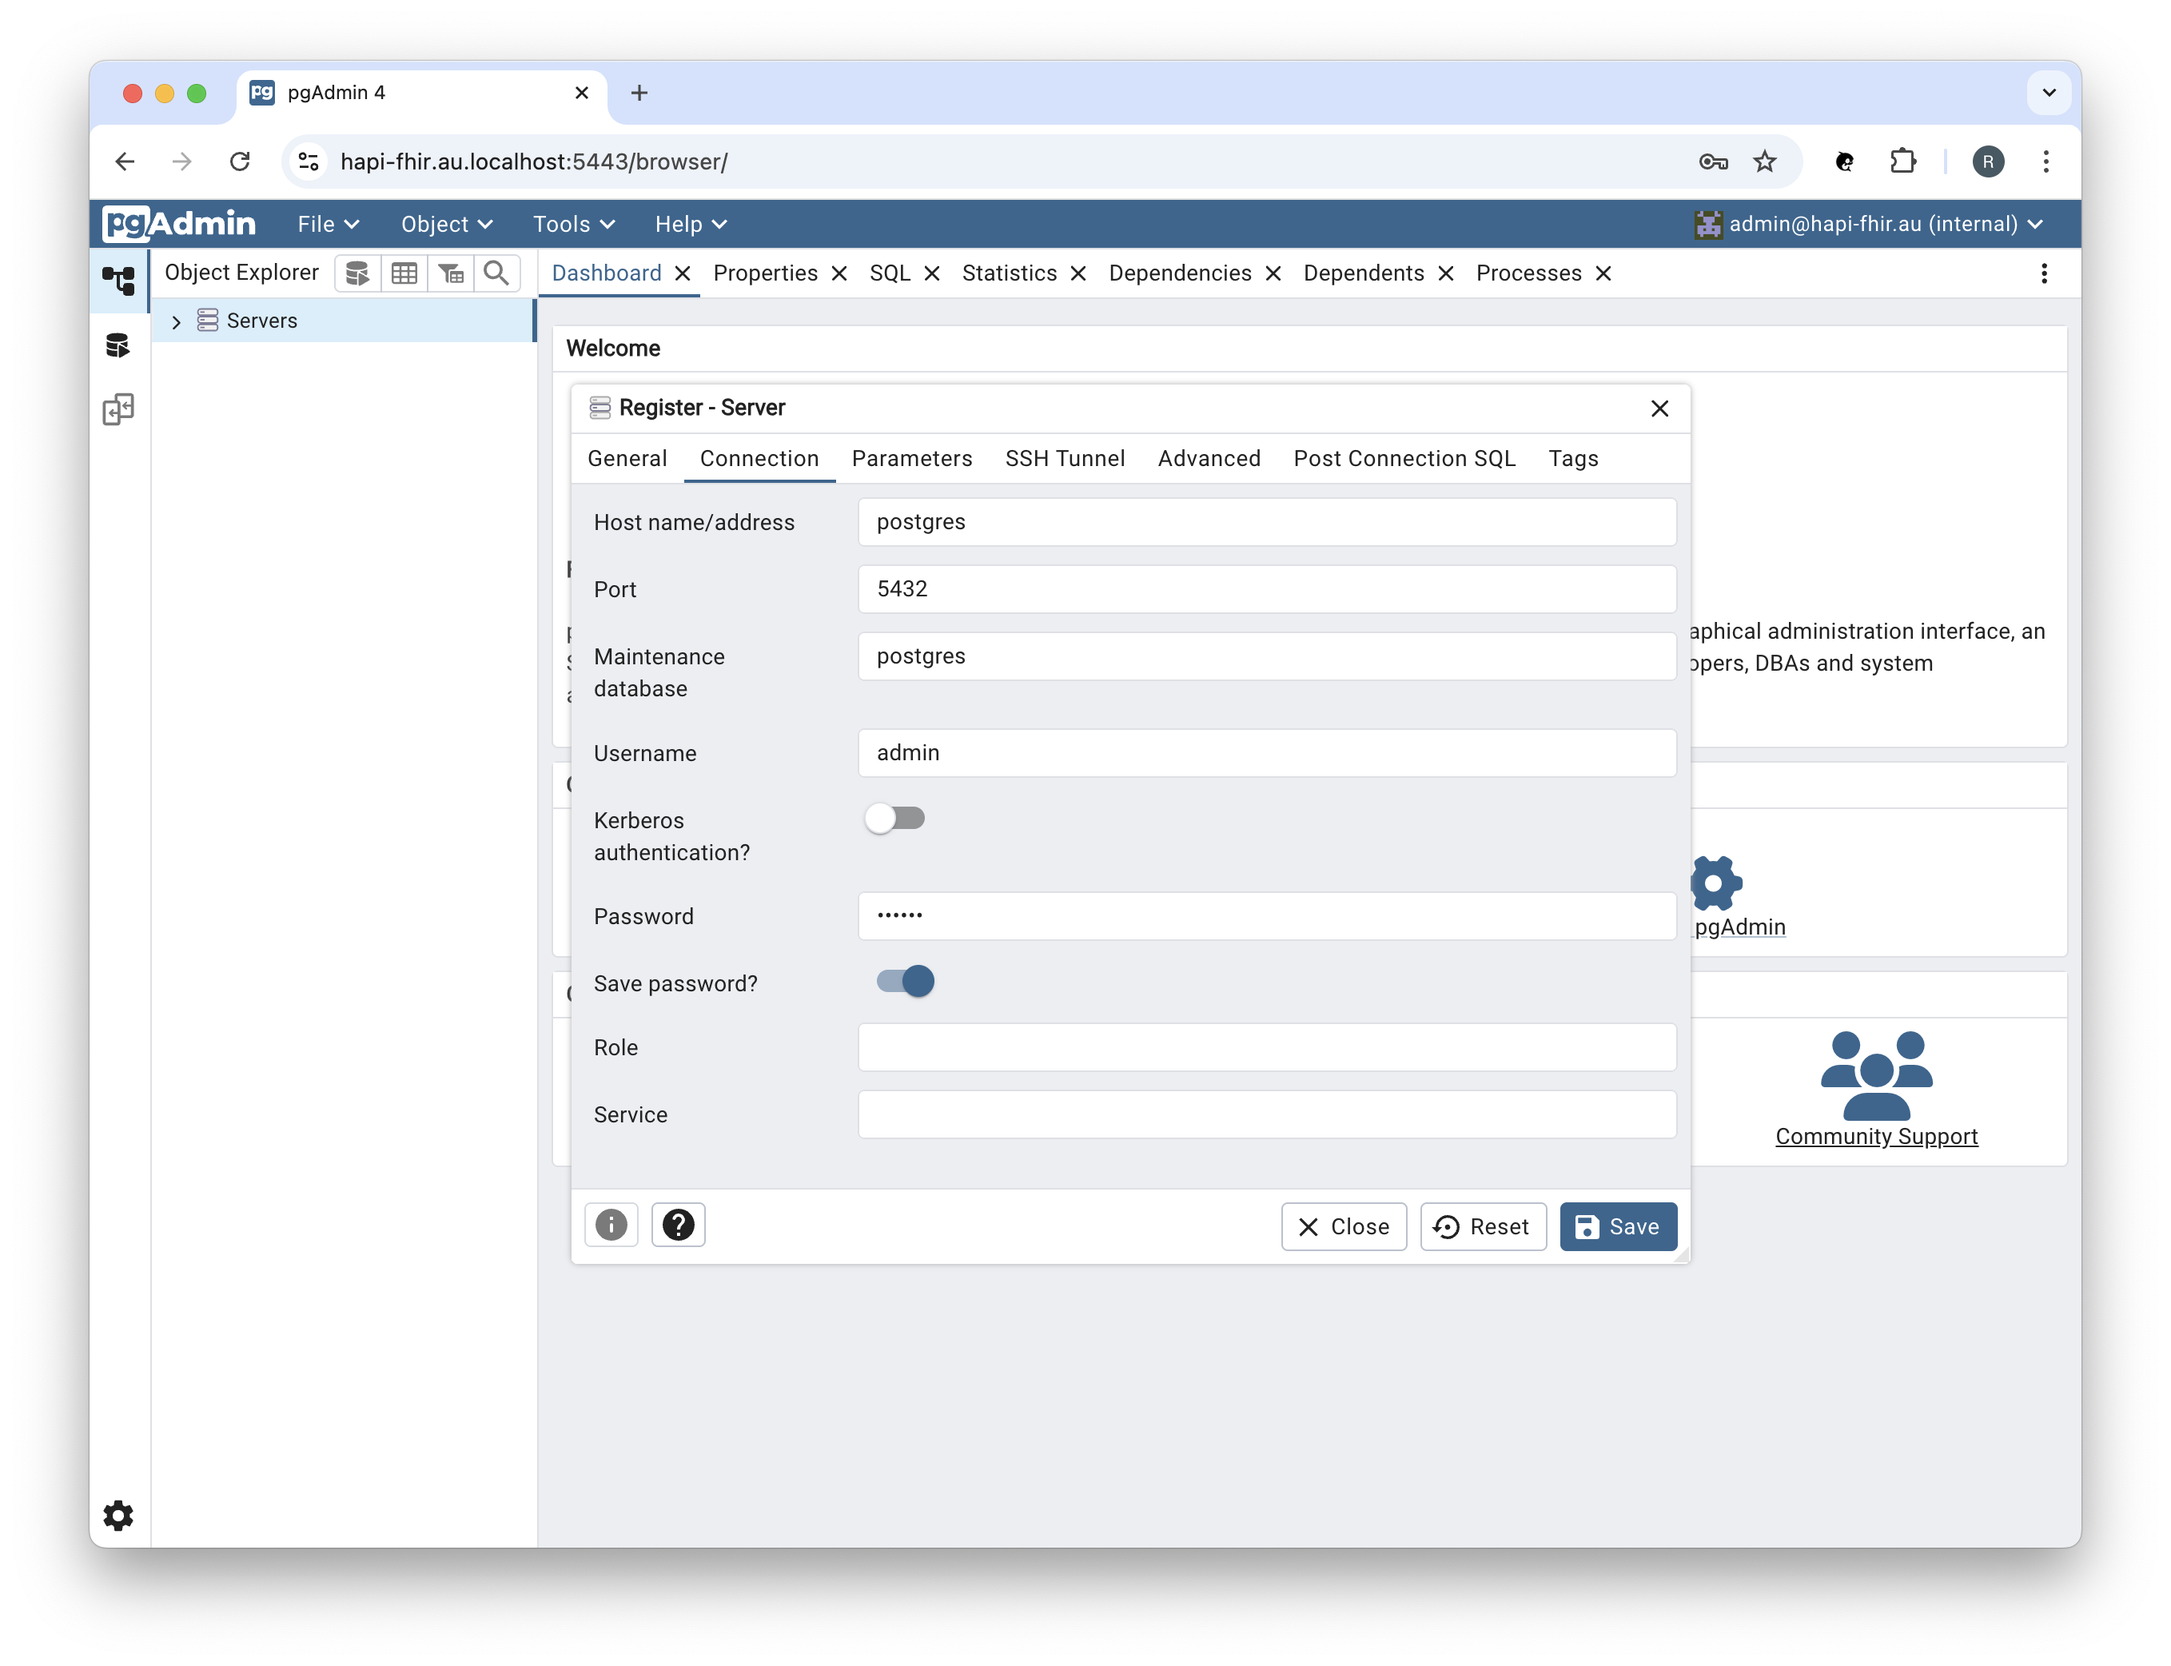
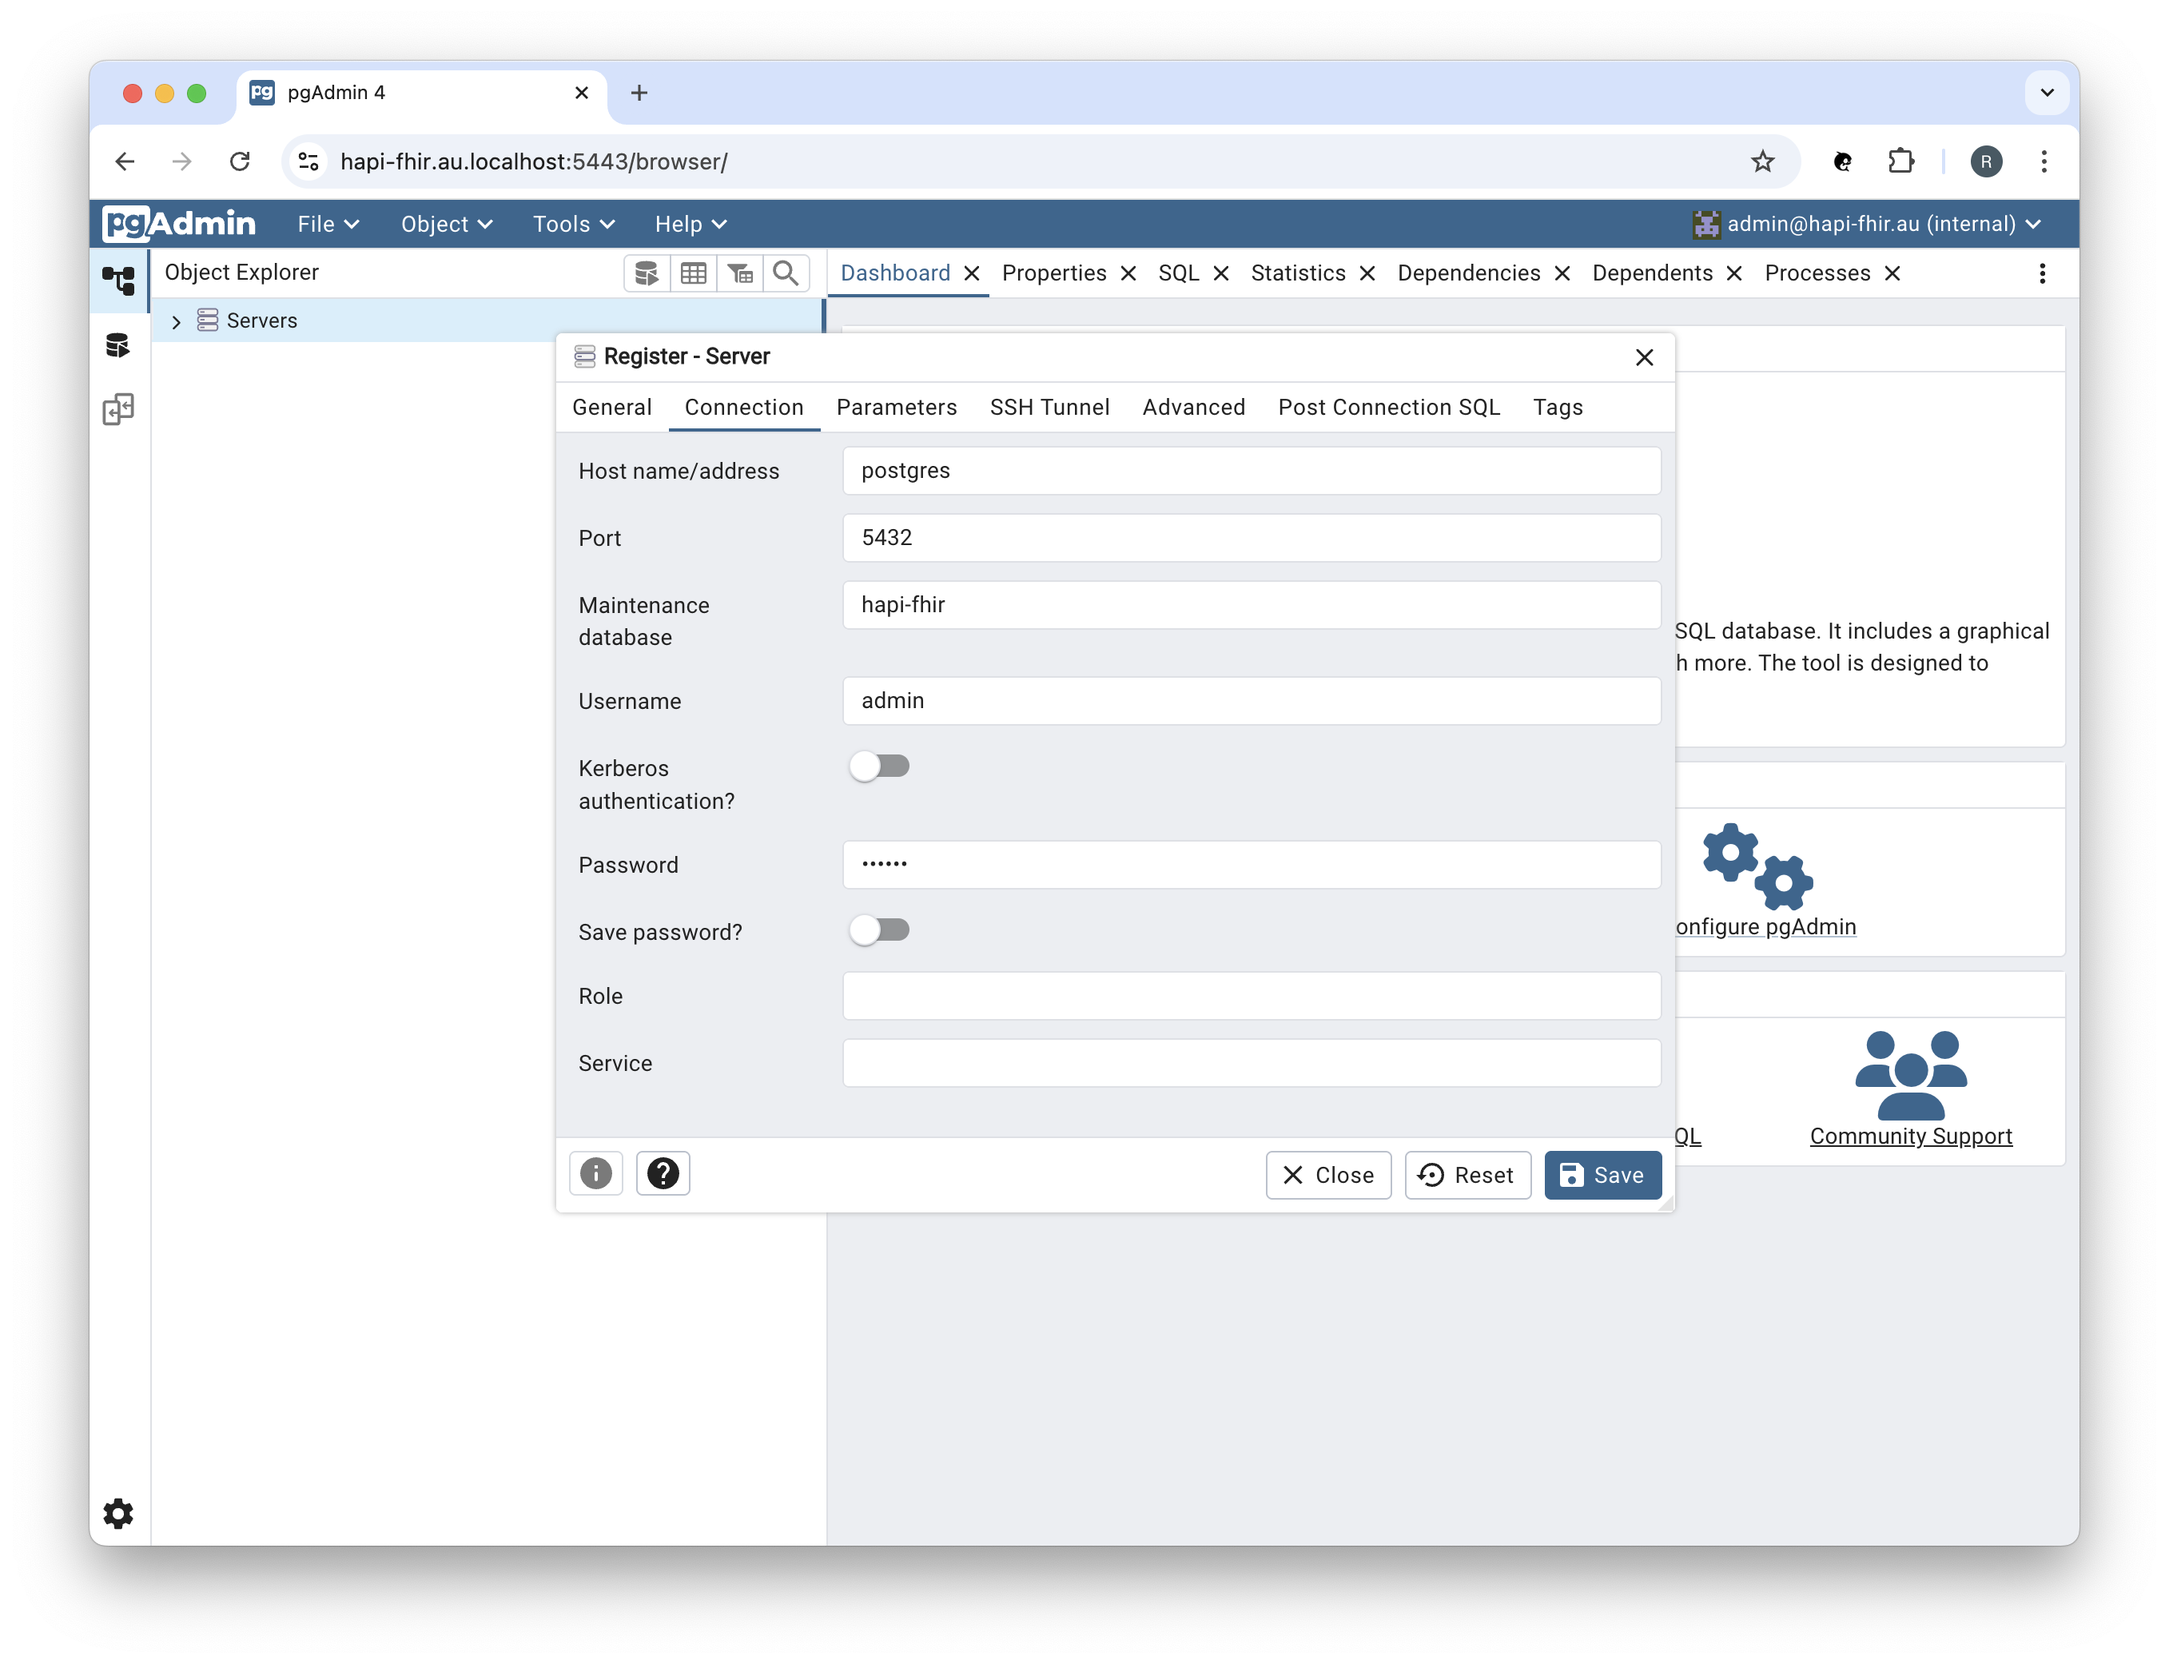
Updated the pgAdmin Maintenance database

diff --git a/docs/administrator/pgadmin/README.md b/docs/administrator/pgadmin/README.md
@@ -24,21 +24,16 @@ In the 'Quick Links' click on 'Add New Server':
   <img src="./pgadmin-register-server-general-tab.png" alt="Register Server - General Tab"/>
 </p>
 
-Enter the Name (PostgreSQL) and then click on the 'Connection' tab:
+Enter the Name (HAPI FHIR PostgreSQL) and then click on the 'Connection' tab:
 
 <p align="center">
   <img src="./pgadmin-register-server-connection-tab.png" alt="Register Server - Connection Tab"/>
 </p>
 
-Enter the Host name / address (postgres) and the PostgreSQL Username (POSTGRES_USER=admin) and Password (POSTGRES_PASSWORD=secret), then click the 'Save' button:
+Enter the Host name / address (postgres) and the PostgreSQL Username (POSTGRES_USER=admin) and Password (POSTGRES_PASSWORD=secret), 
+the Maintenance database (hapi-fhir) then click the 'Save' button:
 
 **Note:** The 'Host name / address' field must match the value (e.g., postgres) specified in the project's docker-compose.yml.
-
-You can use the Object Explorer to browse the database:
-
-<p align="center">
-  <img src="./pgadmin-object-explorer.png" alt="Object Explorer"/>
-</p>
 
 ## ❯ References
 
